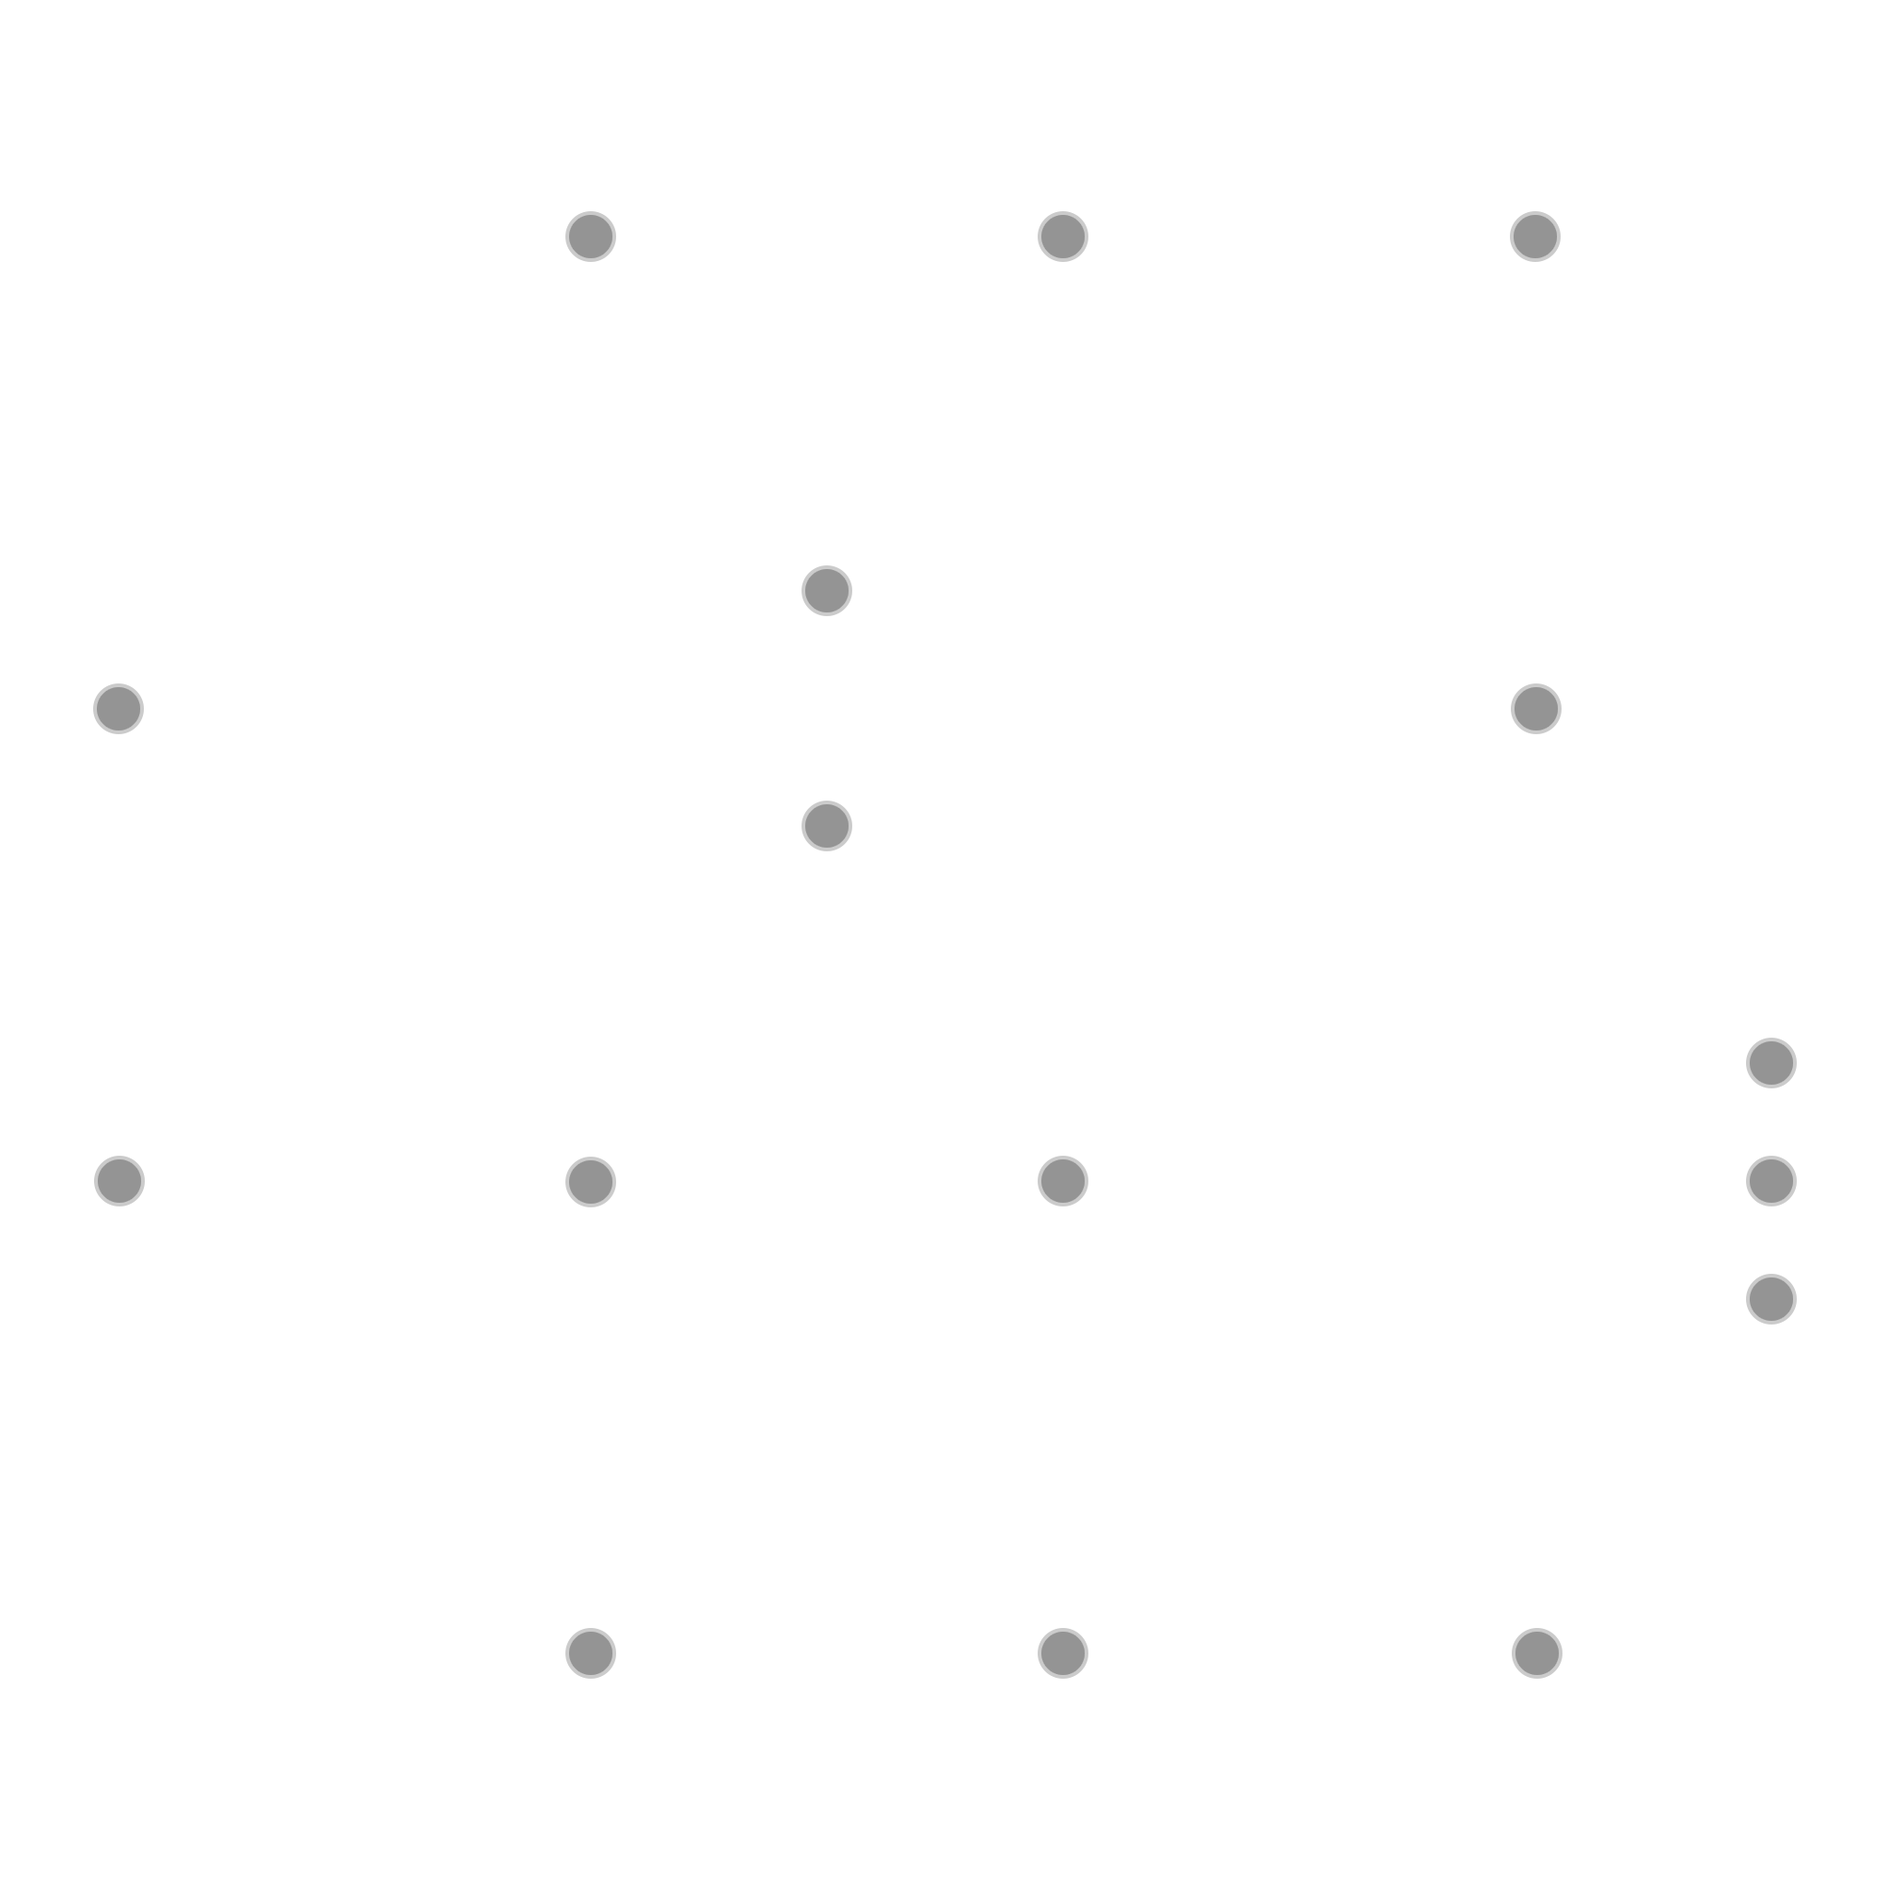
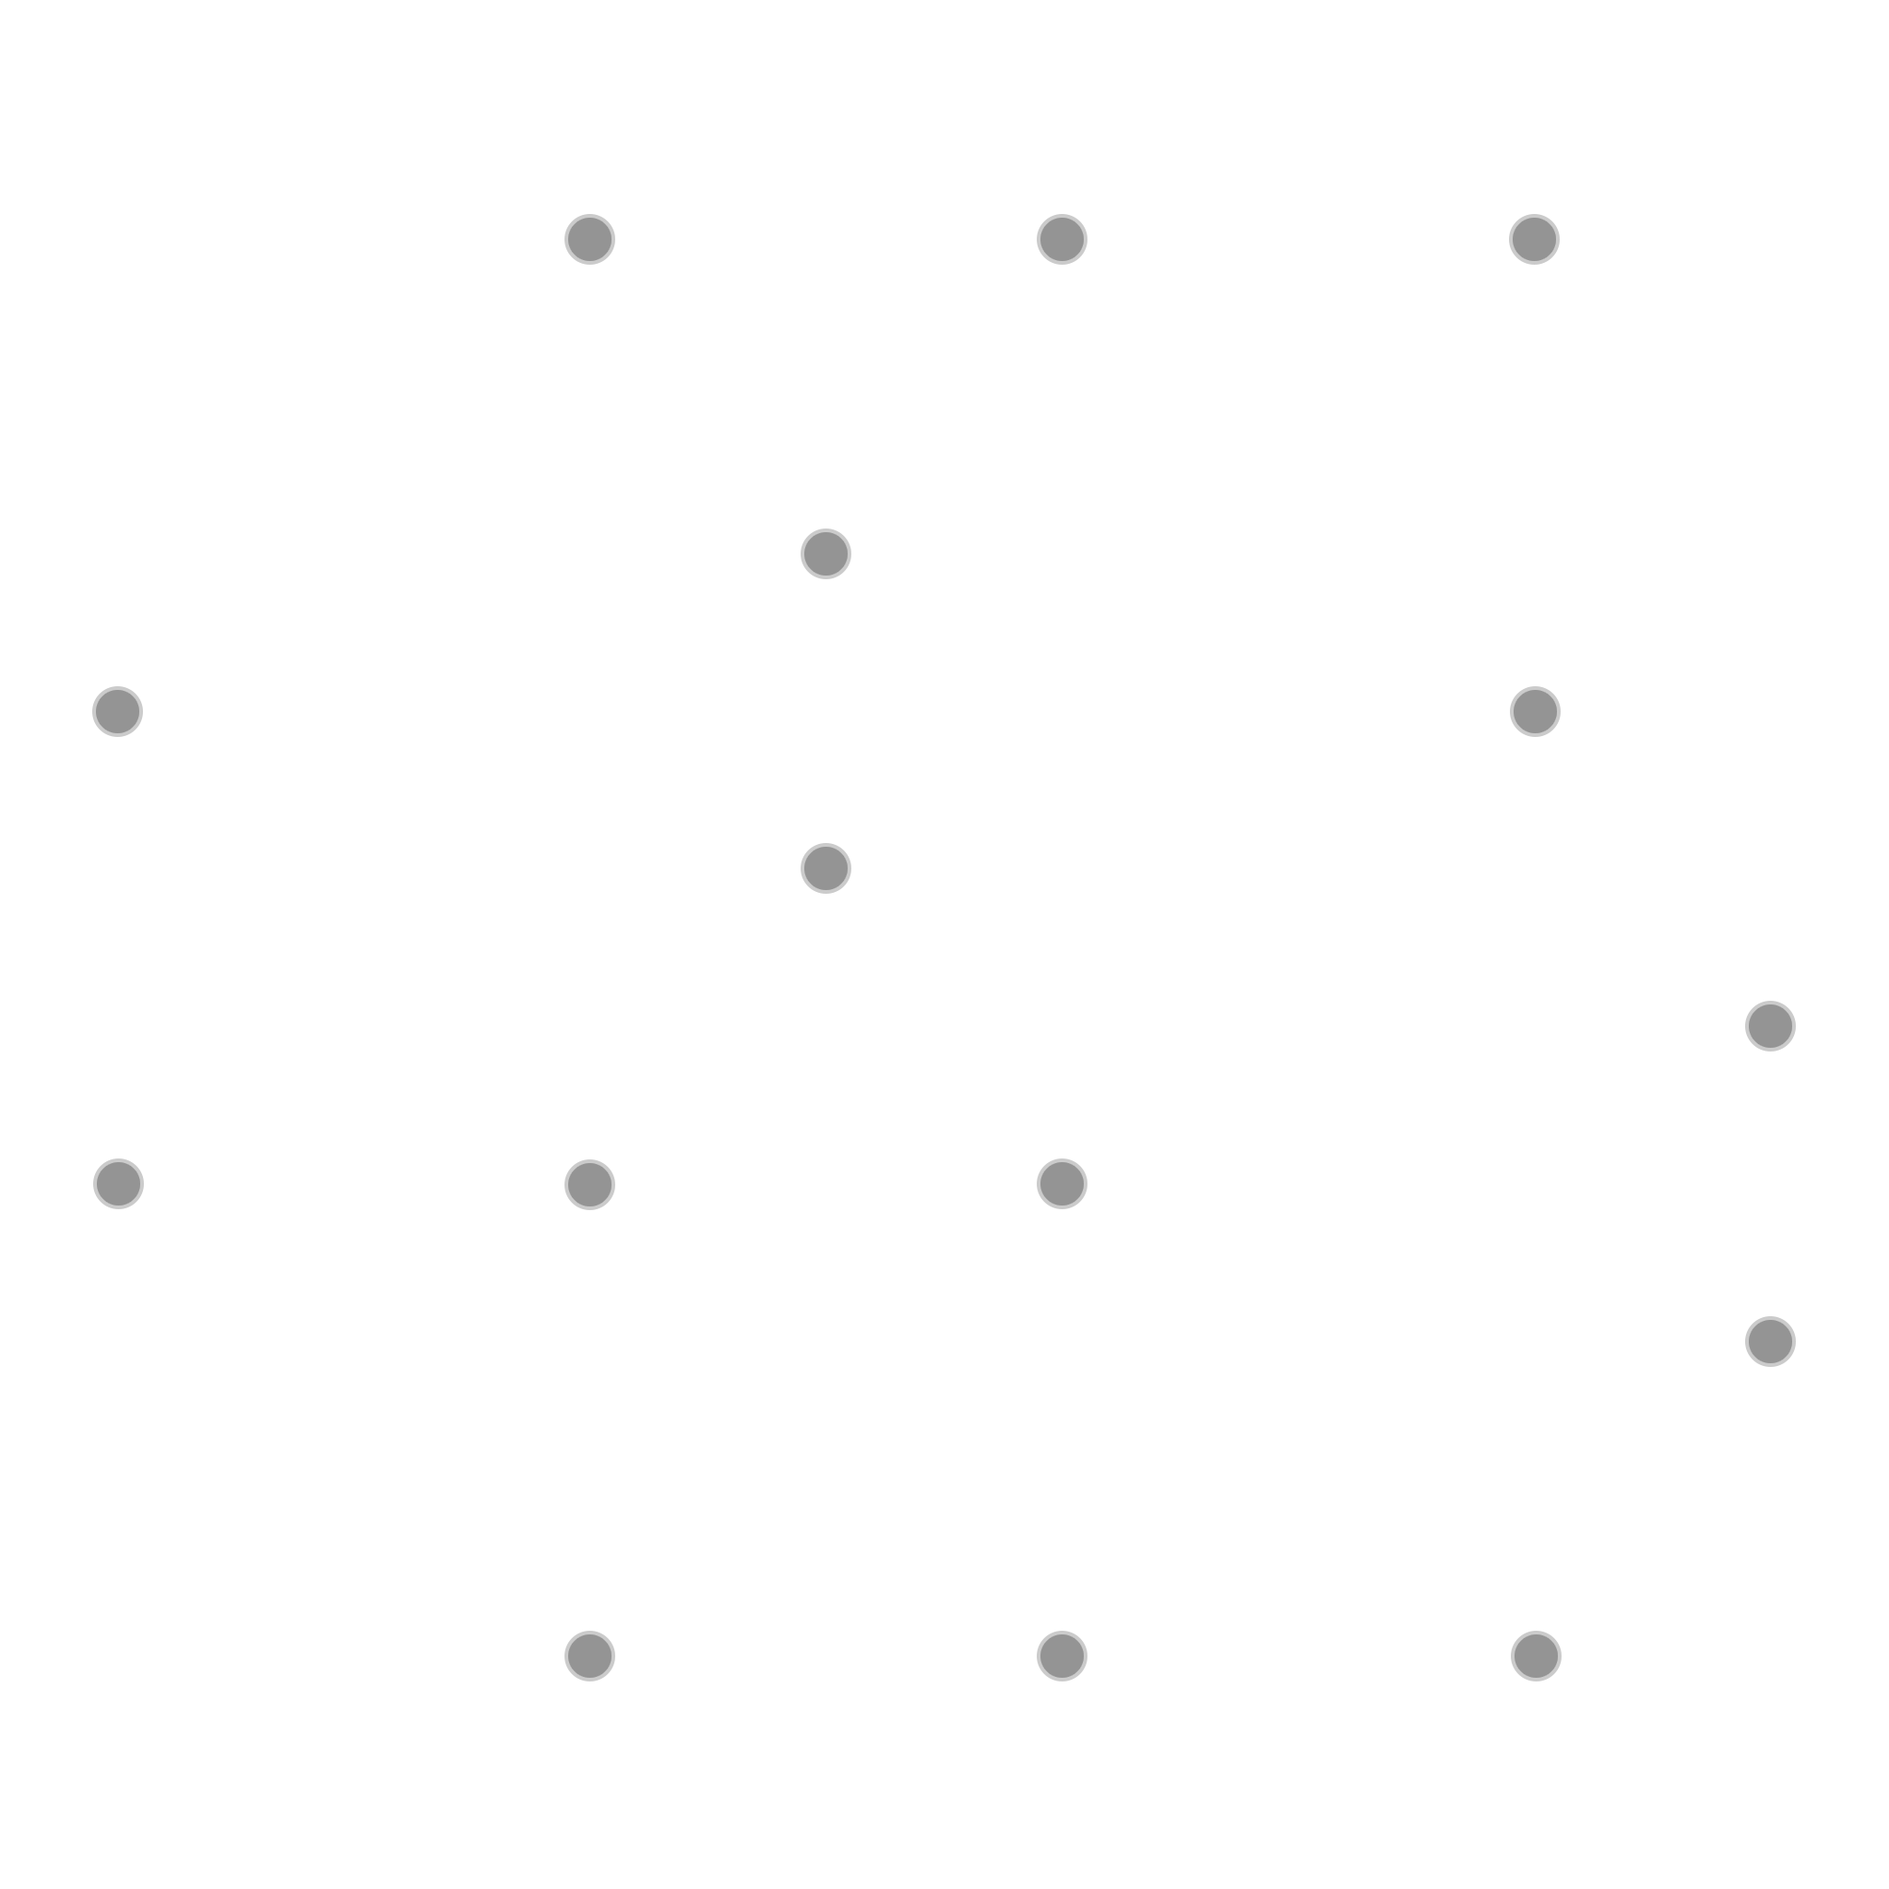
Adjusted perspective in 3D view to be more readable. (#135)
* Adjusted perspective in 3D view to be more readable.

Removed X rotation to make all vertical lines appear truly vertical and adjusted scaling and camera position a bit.

* Enhancements to the 3D preview

- Refactored 3D camera code to avoid code duplication
- Added SLIGHT X rotation because Rocksmith has a very slight X rotation
- Chaged size of fret number text to be more reasonable
- Made notes very slightly wider
- Added the option for Z rotation, but didn't end up using it because it made things look a bit off.

* Corrected positioning of inlays

Inlays now look correct for 6 string and look good enough for 7 and 8 string but 7/8 string will need their own textures in the future.

* Lock the fretboard at the bottom of the screen to make it feel EVEN BETTER

Changed region(s): [[0.9062, 0.5312, 0.9688, 0.7188], [0.4062, 0.4062, 0.4688, 0.4688], [0.4062, 0.2812, 0.4688, 0.3438]]

diff --git a/src/main/java/log/charter/gui/components/preview3D/camera/Preview3DCameraHandler.java b/src/main/java/log/charter/gui/components/preview3D/camera/Preview3DCameraHandler.java
@@ -3,13 +3,8 @@ package log.charter.gui.components.preview3D.camera;
 import static java.lang.Math.max;
 import static java.lang.Math.min;
 import static java.lang.Math.pow;
-import static log.charter.gui.components.preview3D.Preview3DUtils.getFretPosition;
-import static log.charter.gui.components.preview3D.Preview3DUtils.topStringPosition;
-import static log.charter.gui.components.preview3D.glUtils.Matrix4.cameraMatrix;
-import static log.charter.gui.components.preview3D.glUtils.Matrix4.moveMatrix;
-import static log.charter.gui.components.preview3D.glUtils.Matrix4.rotationXMatrix;
-import static log.charter.gui.components.preview3D.glUtils.Matrix4.rotationYMatrix;
-import static log.charter.gui.components.preview3D.glUtils.Matrix4.scaleMatrix;
+import static log.charter.gui.components.preview3D.Preview3DUtils.*;
+import static log.charter.gui.components.preview3D.glUtils.Matrix4.*;
 import static log.charter.util.CollectionUtils.lastBeforeEqual;
 
 import java.util.List;
@@ -26,7 +21,7 @@ import log.charter.services.data.ChartTimeHandler;
 
 public class Preview3DCameraHandler {
 
-	private static final Matrix4 baseCameraPerspectiveMatrix = cameraMatrix(-0.3, -0.3, -0.3, -1)//
+	private static final Matrix4 baseCameraPerspectiveMatrix = cameraMatrix(-0.2, -0.3, -0.3, -1)//
 			.multiply(scaleMatrix(1, 1, -1));
 
 	private final static int fretFocusWindowStartOffset = 0;
@@ -51,38 +46,69 @@ public class Preview3DCameraHandler {
 	private class CameraFinalData {
 		final double camY;
 		final double camZ;
+
 		final double camRotationX;
 		final double camRotationY;
+		final double camRotationZ;
 
 		final double screenScaleX;
 		final double screenScaleY;
 
 		public CameraFinalData(final double aspectRatio) {
-			camY = 1.3 + topStringPosition + (fretSpan - 4) * 0.2;
-			camZ = -2.5 + (fretSpan - 4) * -0.2;
-			camRotationX = 0.2 + Math.sqrt(fretSpan - 4) * 0.01;
-			camRotationY = 0.06;
-
-			screenScaleX = min(minScreenScaleX, screenScaleXMultiplier / aspectRatio);
-			screenScaleY = min(minScreenScaleY, screenScaleYMultiplier * aspectRatio);
+			camY = getCamY();
+			camZ = getCamZ();
+			camRotationX = getCamRotationX();
+			camRotationY = getCamRotationY();
+			camRotationZ = getCamRotationZ();
+			screenScaleX = getScreenScaleX(aspectRatio);
+			screenScaleY = getScreenScaleY(aspectRatio);
 		}
 
 		public CameraFinalData(final double aspectRatio, final double shake) {
-			camY = 1.3 + topStringPosition + (fretSpan - 4) * 0.2 + getRandomShakeValue(shake * 0.5);
-			camZ = -2.5 + (fretSpan - 4) * -0.2 + getRandomShakeValue(shake * 0.5);
-			camRotationX = 0.2 + Math.sqrt(fretSpan - 4) * 0.01 + getRandomShakeValue(shake * 0.1);
-			camRotationY = 0.06 + getRandomShakeValue(shake * 0.1);
-
-			screenScaleX = min(minScreenScaleX, screenScaleXMultiplier / aspectRatio);
-			screenScaleY = min(minScreenScaleY, screenScaleYMultiplier * aspectRatio);
+			camY = getCamY() + getRandomShakeValue(shake * 0.5);
+			camZ = getCamZ() + getRandomShakeValue(shake * 0.5);
+			camRotationX = getCamRotationX() + getRandomShakeValue(shake + 0.1);
+			camRotationY = getCamRotationY() + getRandomShakeValue(shake * 0.1);
+			camRotationZ = getCamRotationZ() + getRandomShakeValue(shake * 0.1);
+			screenScaleX = getScreenScaleX(aspectRatio);
+			screenScaleY = getScreenScaleY(aspectRatio);
 		}
 
 		public Matrix4 generateMatrix() {
-			return scaleMatrix(screenScaleX, screenScaleY, 1 / 10.0)//
+			return scaleMatrix(screenScaleX, screenScaleY + 0.05, 1 / 10.0)
 					.multiply(baseCameraPerspectiveMatrix)//
 					.multiply(rotationXMatrix(camRotationX))//
 					.multiply(rotationYMatrix(camRotationY))//
-					.multiply(moveMatrix(-camX, -camY, -camZ));
+					.multiply(rotationZMatrix(camRotationZ))//
+					.multiply(moveMatrix(-camX, -camY, -camZ));//
+		}
+
+		private double getCamY() {
+			return 5.0 + chartboardYPosition + (fretSpan - 4) * 0.2;
+		}
+
+		private double getCamZ() {
+			return -2.5 + (fretSpan - 4) * -0.2;
+		}
+
+		private double getCamRotationX() {
+			return 0.06;
+		}
+
+		private double getCamRotationY() {
+			return 0.03;
+		}
+
+		private double getCamRotationZ() {
+			return 0.00;
+		}
+
+		private double getScreenScaleX(final double aspectRatio) {
+			return min(minScreenScaleX, screenScaleXMultiplier / aspectRatio);
+		}
+
+		private double getScreenScaleY(final double aspectRatio) {
+			return min(minScreenScaleY, screenScaleYMultiplier * aspectRatio);
 		}
 	}
 
@@ -146,6 +172,35 @@ public class Preview3DCameraHandler {
 		cameraShakeStrength = strength;
 	}
 
+	private Matrix4 anchorYZCrossingToBottom(final Matrix4 cameraMatrix) {
+		// Anchor point on the Y/Z crossing at the camera's X focus
+		final double x = camX;
+		final double y = 0;
+		final double z = 0;
+
+		// Transform into clip space
+		final double clipY =
+				cameraMatrix.matrix[1][0] * x +
+						cameraMatrix.matrix[1][1] * y +
+						cameraMatrix.matrix[1][2] * z +
+						cameraMatrix.matrix[1][3];
+
+		final double clipW =
+				cameraMatrix.matrix[3][0] * x +
+						cameraMatrix.matrix[3][1] * y +
+						cameraMatrix.matrix[3][2] * z +
+						cameraMatrix.matrix[3][3];
+
+		// Convert to NDC Y
+		final double ndcY = clipY / clipW;
+
+		// Bottom of screen in OpenGL NDC is -1
+		final double offsetY = -1 - ndcY + 0.1;
+
+		// IMPORTANT: X offset is intentionally zero
+		return Matrix4.moveMatrix(0, offsetY, 0);
+	}
+
 	public void updateCamera(final double aspectRatio) {
 		final CameraFinalData cameraFinalData;
 		if (SecretsConfig.explosionsShakyCamEnabled()) {
@@ -156,6 +211,7 @@ public class Preview3DCameraHandler {
 			cameraFinalData = new CameraFinalData(aspectRatio);
 		}
 
-		currentMatrix = cameraFinalData.generateMatrix();
+		final Matrix4 cameraMatrix = cameraFinalData.generateMatrix();
+		currentMatrix = anchorYZCrossingToBottom(cameraMatrix).multiply(cameraMatrix);
 	}
 }

diff --git a/src/main/java/log/charter/gui/components/preview3D/Preview3DUtils.java b/src/main/java/log/charter/gui/components/preview3D/Preview3DUtils.java
@@ -6,12 +6,13 @@ import log.charter.data.config.GraphicalConfig;
 import log.charter.data.config.values.InstrumentConfig;
 
 public class Preview3DUtils {
-	public static final double topStringPosition = 0;
+	public static final double chartboardYPosition = 0;
+	public static final double stringDistance = 0.35;
+	public static final double bottomStringPosition = chartboardYPosition + stringDistance;
 	public static final double fretThickness = 0.025;
 	public static final double firstFretDistance = 1.2;
-	public static final double noteHalfWidth = firstFretDistance / 3;
+	public static final double noteHalfWidth = firstFretDistance / 2.5;
 	public static final double tailHalfWidth = noteHalfWidth * 0.33;
-	public static final double stringDistance = 0.35;
 	public static final double bendHalfstepDistance = stringDistance * 0.8;
 	public static final int closeDistance = 250;
 	public static final float closeDistanceZ = (float) getTimePosition(closeDistance);
@@ -51,7 +52,7 @@ public class Preview3DUtils {
 	}
 
 	public static double getChartboardYPosition(final int strings) {
-		return -stringDistance * strings;
+		return chartboardYPosition;
 	}
 
 	private static int invertStrings(final int string, final int strings) {
@@ -59,7 +60,7 @@ public class Preview3DUtils {
 	}
 
 	public static double getStringPosition(final int string, final int strings) {
-		return topStringPosition - invertStrings(string, strings) * stringDistance;
+		return bottomStringPosition + (strings - 1) * stringDistance - invertStrings(string, strings) * stringDistance;
 	}
 
 	public static double getStringPositionWithBend(final int string, final int strings, final double bendValue) {

diff --git a/src/main/java/log/charter/gui/components/preview3D/drawers/Preview3DStringsFretsDrawer.java b/src/main/java/log/charter/gui/components/preview3D/drawers/Preview3DStringsFretsDrawer.java
@@ -8,7 +8,7 @@ import static log.charter.gui.components.preview3D.Preview3DUtils.fretThickness;
 import static log.charter.gui.components.preview3D.Preview3DUtils.getFretPosition;
 import static log.charter.gui.components.preview3D.Preview3DUtils.getStringPosition;
 import static log.charter.gui.components.preview3D.Preview3DUtils.stringDistance;
-import static log.charter.gui.components.preview3D.Preview3DUtils.topStringPosition;
+import static log.charter.gui.components.preview3D.Preview3DUtils.bottomStringPosition;
 import static log.charter.util.CollectionUtils.firstAfter;
 import static log.charter.util.CollectionUtils.lastBefore;
 import static log.charter.util.ColorUtils.mix;
@@ -129,8 +129,8 @@ public class Preview3DStringsFretsDrawer {
 		final Color activeColor = ColorLabel.PREVIEW_3D_ACTIVE_FRET.color();
 		final Color highlightColor = ColorLabel.PREVIEW_3D_HIGHLIGHTED_FRET.color();
 
-		final double y0 = topStringPosition + stringDistance / 2;
-		final double y1 = topStringPosition - stringDistance * (chartData.currentStrings() - 0.5);
+		final double y0 = bottomStringPosition - stringDistance / 2;
+		final double y1 = bottomStringPosition + stringDistance * (chartData.currentStrings() - 0.5);
 
 		for (int fret = 0; fret <= InstrumentConfig.frets; fret++) {
 			Color fretColor = activeFrets[fret] ? activeColor : inactiveColor;

diff --git a/src/main/java/log/charter/gui/components/preview3D/drawers/Preview3DInlayDrawer.java b/src/main/java/log/charter/gui/components/preview3D/drawers/Preview3DInlayDrawer.java
@@ -2,7 +2,7 @@ package log.charter.gui.components.preview3D.drawers;
 
 import static log.charter.gui.components.preview3D.Preview3DUtils.getFretPosition;
 import static log.charter.gui.components.preview3D.Preview3DUtils.stringDistance;
-import static log.charter.gui.components.preview3D.Preview3DUtils.topStringPosition;
+import static log.charter.gui.components.preview3D.Preview3DUtils.bottomStringPosition;
 
 import org.lwjgl.opengl.GL30;
 import org.lwjgl.opengl.GL33;
@@ -27,8 +27,8 @@ public class Preview3DInlayDrawer {
 	public void draw(final ShadersHolder shadersHolder) {
 		final BaseTextureShaderDrawData drawData = shadersHolder.new BaseTextureShaderDrawData();
 
-		final double y0 = topStringPosition + stringDistance / 2;
-		final double y1 = topStringPosition - stringDistance * (data.currentStrings() - 0.5);
+		final double y0 = bottomStringPosition - stringDistance / 2;
+		final double y1 = bottomStringPosition + stringDistance * (data.currentStrings() - 0.5);
 
 		for (int i = 0; i <= InstrumentConfig.frets && i < 32; i++) {
 			final DoubleRange x = new DoubleRange(getFretPosition(i), getFretPosition(i + 1));

diff --git a/src/main/java/log/charter/gui/components/preview3D/drawers/Preview3DBeatsDrawer.java b/src/main/java/log/charter/gui/components/preview3D/drawers/Preview3DBeatsDrawer.java
@@ -112,10 +112,11 @@ public class Preview3DBeatsDrawer {
 		final double x = getFretMiddlePosition(fret);
 		final double width = abs(getFretPosition(fret) - getFretPosition(fret - 1)) * textureData.width
 				/ textureData.height;
-		final double x0 = x - width * 0.4;
-		final double x1 = x + width * 0.4;
-		final double y0 = y + 0.5;
-		final double y1 = y - 0.5;
+		final double scale = z > 0 ? 0.35 : 0.2;
+		final double x0 = x - width * scale;
+		final double x1 = x + width * scale;
+		final double y0 = y + scale;
+		final double y1 = y - scale;
 
 		shadersHolder.new BaseTextureShaderDrawData()//
 				.addZQuad(x0, x1, y0, y1, z, 0, 1, 0, 1)//

diff --git a/src/main/java/log/charter/gui/components/preview3D/Preview3DPanel.java b/src/main/java/log/charter/gui/components/preview3D/Preview3DPanel.java
@@ -196,8 +196,8 @@ public class Preview3DPanel extends AWTGLCanvas implements Initiable {
 			shadersHolder.setSceneMatrix(cameraHandler.currentMatrix);
 			timer.addTimestamp("updating camera");
 
-			// videoDrawer.draw(shadersHolder, getWidth(), getHeight());
-			// timer.addTimestamp("videoDrawer");
+			//videoDrawer.draw(shadersHolder, getWidth(), getHeight());
+			//timer.addTimestamp("videoDrawer");
 
 			final Preview3DDrawData drawData = new Preview3DDrawData(chartData, chartTimeHandler, repeatManager);
 			timer.addTimestamp("preparing draw data");
